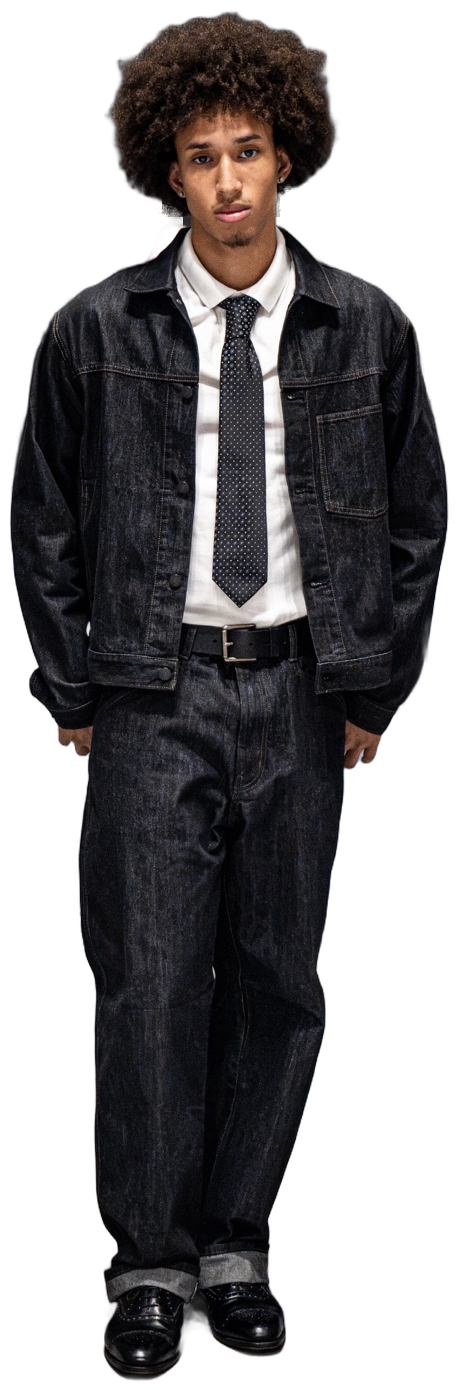
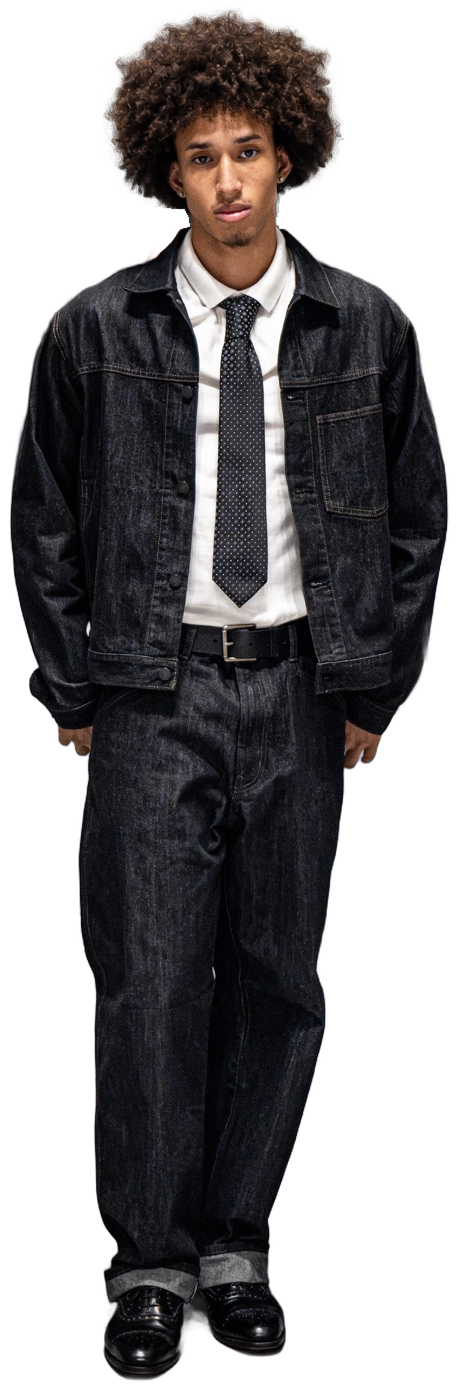
Composite generated hair with original face and body

Changed region(s): [[0.2135, 0.0, 0.7625, 0.1856], [0.671, 0.1237, 0.7015, 0.1547]]

diff --git a/HOMEPAGE-PREVIEW.md b/HOMEPAGE-PREVIEW.md
@@ -13,12 +13,19 @@ preview, because its old template would overwrite the maintained `index.html`.
 
 ## Image provenance
 
-The portrait uses uploaded `P1099973(3).jpeg`, 1199 × 1536. A segmentation and
-matting process created transparency only. The PNG crops original coordinates
-(370,108)–(829,1498), yielding 459 × 1390. Every RGB pixel in that crop is identical
-to the decoded original; there is no face generation, body reshaping, color editing,
-sharpening, or resampling. The hair transparency is refined; clothing uses the
-smooth segmentation edge. A CSS ground shadow is separate from the photo.
+The portrait starts from uploaded `P1099973(3).jpeg`, 1199 × 1536, cropped to
+original coordinates (370,108)–(829,1498), yielding 459 × 1390. Following explicit
+permission, the outer hair was generated using the built-in Image Generation tool.
+The final composite restores the original face, expression, skin texture, neck,
+clothing and body; it does not use the generated face or body. Pixel checks
+confirmed the facial interior and body remain identical to the original cutout.
+Minor transparency cleanup removes backdrop residue beside the neck. Hair alone
+uses generated color/texture and transparency. The original photograph is retained.
+
+Generation brief: preserve the exact pose, scale and hairstyle; rebuild natural
+curl tips and flyaways, remove halos and angular cutout edges, use true transparency,
+and protect facial identity. Face and clothing were restored by compositing after
+generation. No generated website mockups or slideshow photographs are used.
 
 Slideshow originals are copied without re-encoding:
 
@@ -62,3 +69,8 @@ The hair perimeter now uses a higher-resolution portrait segmentation mask to
 remove the gray fringe and stair-step edges. Only hair transparency changed;
 all RGB pixels, face transparency, and the mask below the hair are identical to
 the first preview. Layout, slideshow, and all other files are unchanged.
+
+## Generated hair composite
+
+Supersedes the mask-only hair refinement above. Only the center portrait asset
+changed. The live site remains untouched; browser visual QA is still outstanding.
